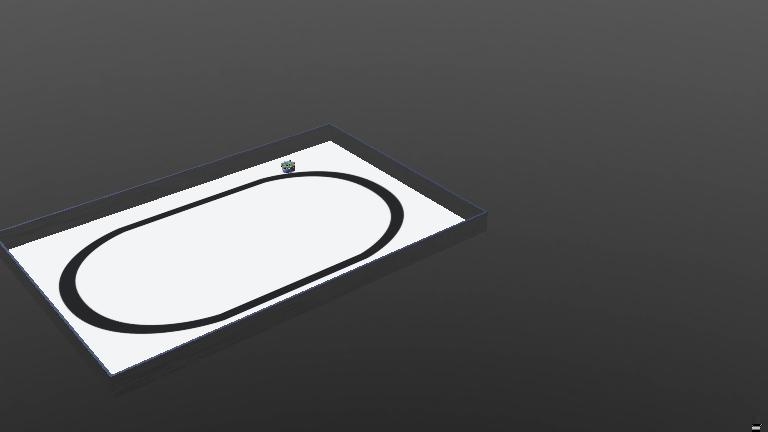
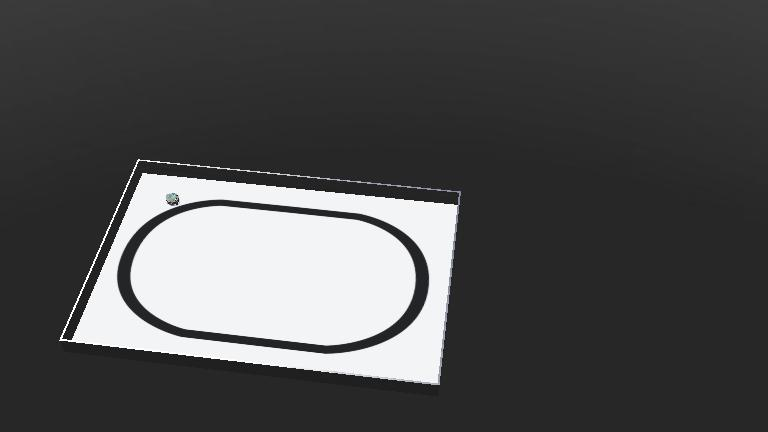
Implement acceleration for obstacle avoidance and update world timestep, robot mass, and initial pose.

diff --git a/e-puck/controllers/my_controller/my_controller.py b/e-puck/controllers/my_controller/my_controller.py
@@ -32,6 +32,22 @@ def set_wheel_velocity(lin_vel, ang_vel):
     motorL.setVelocity(w_l)
     motorR.setVelocity(w_r)
 
+# Function to get the current linear speed
+def get_current_linear_speed():
+    w_r = motorR.getVelocity()
+    w_l = motorL.getVelocity()
+    v_r = w_r * WHEEL_RADIUS
+    v_l = w_l * WHEEL_RADIUS
+    lin_vel = (v_r + v_l) / 2
+    return lin_vel
+
+# Function for linear acceleration
+def acc_speed(target_speed, current_speed, delta_time, time_to_target):
+    if current_speed <= target_speed:
+        delta_vel = (target_speed - current_speed) / delta_time
+    elif current_speed > target_speed:
+        delta_vel = (target_speed - current_speed) / delta_time
+    return current_speed + delta_vel*time_to_target
 
 # create the Robot instance
 robot = Robot()
@@ -44,7 +60,7 @@ motorR = robot.getDevice('right wheel motor')
 # Setup distance sensor 
 ds1 = robot.getDevice('distance_sensor_1')
 # enable distance sensor with in order to have a good precision
-ds1.enable(10*timestep)
+ds1.enable(timestep)
 
 
 # Set the motors to rotate indefinitely for velocity control
@@ -54,8 +70,9 @@ motorR.setPosition(float('inf'))
 # Variables for printing the sensor value every 1 second 
 last_print_time = 0.0
 
-# Create variable to not have inst. acceleration
-count = -1
+# Variables for acceleration
+OBSTACLE_DECELERATION_TIME = 1 #(s)
+time_to_target = 0.0
 
 # Main loop:
 # - perform simulation steps until Webots is stopping the controller
@@ -71,17 +88,26 @@ while robot.step(timestep) != -1:
         w_l = motorL.getVelocity()
         print(f"Wheel speeds: L: {w_l}, R: {w_r}")
 
+    # set_wheel_velocity(0.1, 0)
+
     # Simple obstacle avoidance with deceleration and acceleration
     if dist < 500:
-        set_wheel_velocity(0.25, -5)
-        count = 50
-    elif dist < 750 and count == -1: 
-        set_wheel_velocity(0.5, -1.5)
-    elif count >= 0:
-        set_wheel_velocity(0.5, -1.5)
-        count -= 1
+        set_wheel_velocity(0.1, -5)
+        time_to_target = 0.0
+    elif dist < 750: 
+        current_speed = get_current_linear_speed()
+        time_to_target += 0.010
+        new_speed = acc_speed(0.1, current_speed, OBSTACLE_DECELERATION_TIME, time_to_target)
+        set_wheel_velocity(new_speed, 0)
     else:
-        set_wheel_velocity(0.75, -1.5)
+        current_speed = get_current_linear_speed()
+        if current_speed < 0.1:
+            time_to_target += 0.010
+            new_speed = acc_speed(0.1, current_speed, OBSTACLE_DECELERATION_TIME, time_to_target)
+            set_wheel_velocity(new_speed, 0)
+        else:
+            time_to_target = 0.0
+            set_wheel_velocity(0.1, 0)
 
     pass
 